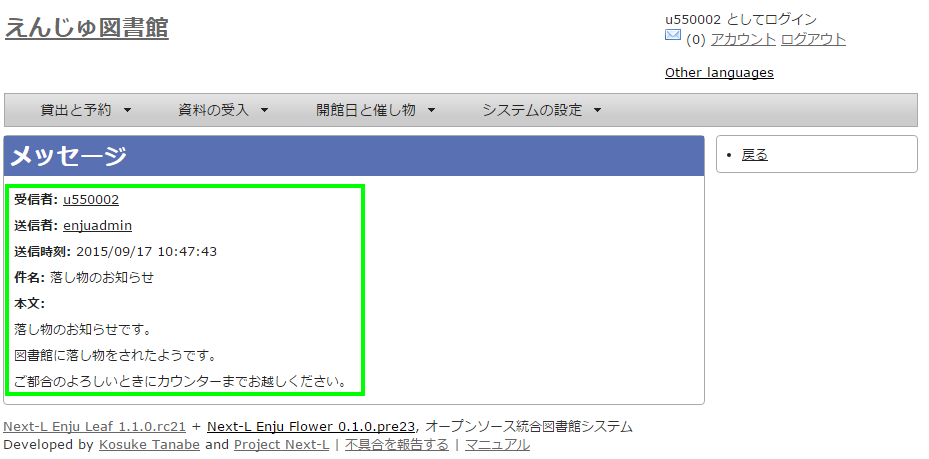
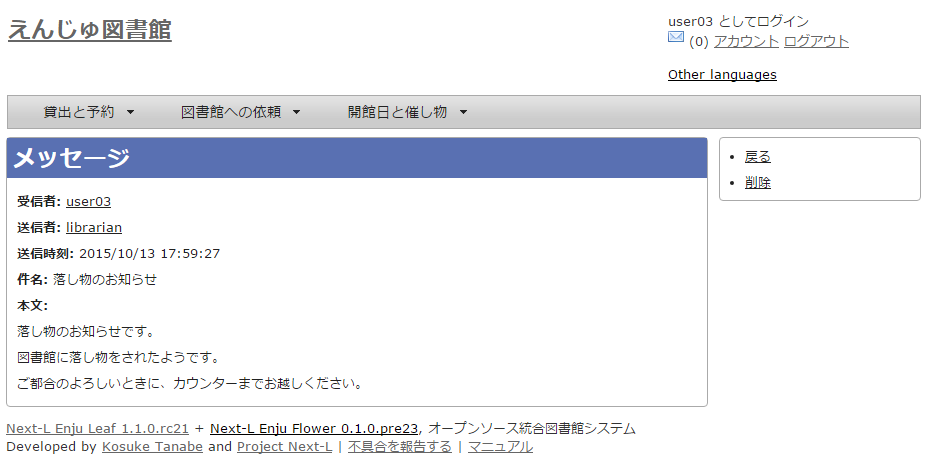
運用マニュアルのメッセージの受信について別ファイルでできるように より修正した。

Changed region(s): [[0.0, 0.1525, 0.9989, 1.0], [0.6868, 0.0305, 0.9053, 0.122], [0.0, 0.0305, 0.1873, 0.0915]]

diff --git a/_includes/enju_readmessage.md b/_includes/enju_readmessage.md
@@ -19,20 +19,6 @@
 リンクをクリックすると、すべてが表示されます。
 </div>
 
-#### 3. メッセージの内容が表示されます。返信したい場合は、右メニューの［メッセージに返信する］をクリックします。  
-
-![メッセージに返信する](assets/images/image_operation_024.png)
-
-<div class="alert alert-info memo" markdown="1">
-
-【Memo】User権限のユーザーから，
-Librarian権限のユーザーやAdministrator権限のユーザーへ，
-メッセージを返信する機能はありません。
-
-そのため、User権限のユーザーでは、［メッセージに返信する］は表示されません。
-
-![User権限でログインしたときのメッセージ一覧](assets/images/image_initial_010.png)
+#### 3. メッセージの内容が表示されます
 
 ![User権限でログインしたときのメッセージ表示](assets/images/image_initial_011.png)
-
-</div>
